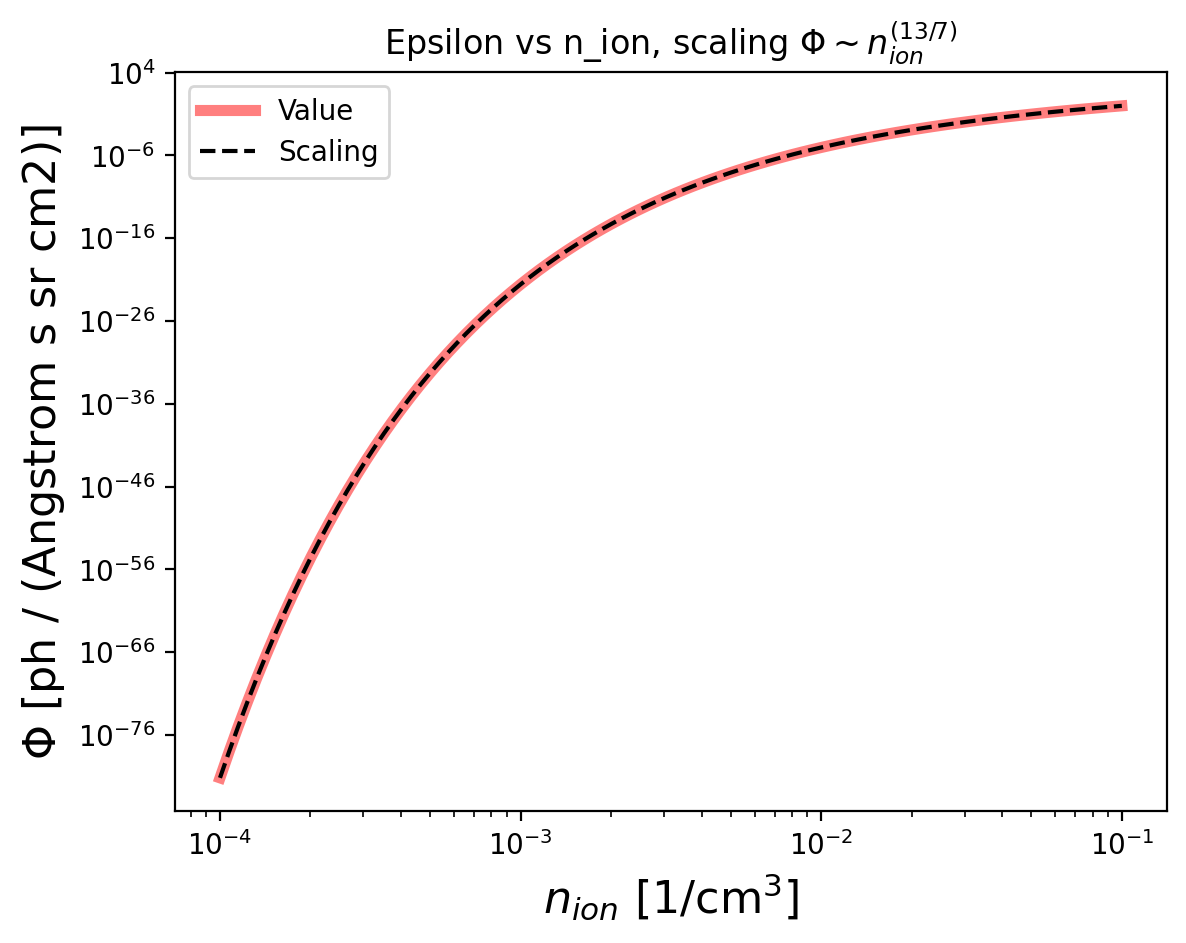
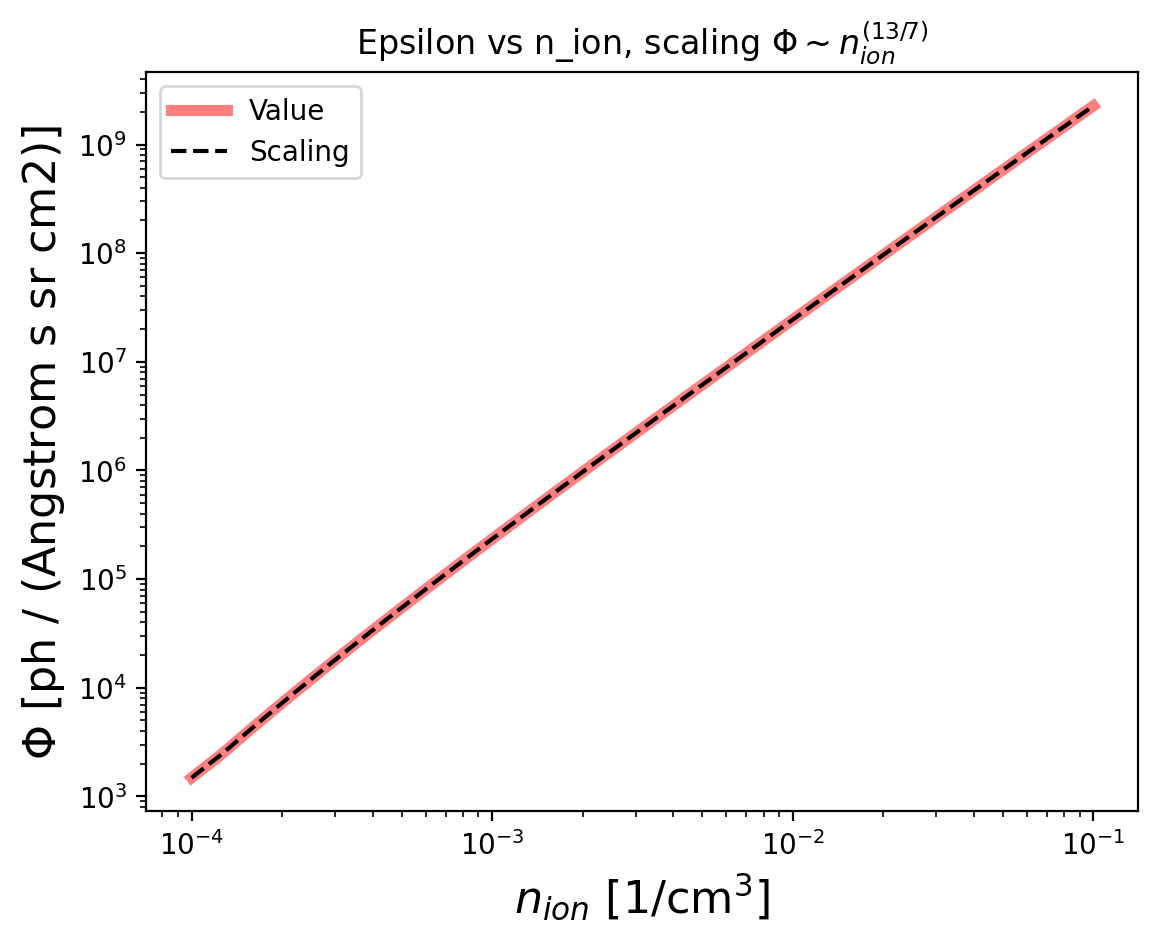
updates fixing emissivity

diff --git a/processing/testing-velocity-distribution.py b/processing/testing-velocity-distribution.py
@@ -123,9 +123,9 @@ quant = {
     'dark_mat': np.array([0.3]) * u.GeV/u.cm**3 * GeV_to_g,
     'ioni_gas': np.array([0.01]) * 1/u.cm**3,
     'neut_gas': np.array([0]) * 1/u.cm**3, 
-    'temp_ion': np.array([1e4]) * u.K, 
+    'temp_ion': np.array([1.5e5]) * u.K, 
     'dv_ioni':  np.array([220]) * u.km/u.s, 
-    'dv_neut':  np.array([200]) * u.km/u.s,
+    'dv_neut':  np.array([0]) * u.km/u.s,
 }
 
 enforce_units(quant)
@@ -150,21 +150,74 @@ T_AQN = T_AQN_ionized2(n_bar=quant["ioni_gas"],
     R=calc_R_AQN(m_aqn_kg))
 
 # print(T_AQN)
-from astropy import constants as cst
-from astropy import units as u
+# from astropy import constants as cst
+# from astropy import units as u
 
-T_AQN = 102.1*u.eV
-w = 1500 * u.AA 
-nu = w.to(u.Hz, equivalencies=u.spectral()) # 1.999e15 [Hz]
+
+
+T_AQN = 4.623*u.eV#102.1*u.eV
+lamb = 1500 * u.AA 
+nu = lamb.to(u.Hz, equivalencies=u.spectral()) # 1.999e15 [Hz]
 L = (0.6*u.kpc).to(u.m)
 R = calc_R_AQN(m_aqn_kg).to(u.m) # 2.25 [m]
 n_AQN = 2/5 * quant["dark_mat"] / m_aqn_kg # 1.28e-20 [1/m**3]
 X = T_AQN.to(u.J)
 C = 8 * cst.alpha**(5/2) / (45*cst.hbar**2*cst.c**2)
 F = C * X**3 * (X/cst.m_e/cst.c**2)**(1/4) * H(2*np.pi*cst.hbar*nu/X)
-Phi = L*R**2*n_AQN*F/(2*np.pi*cst.hbar*w) * (1*u.m/(100*u.cm))**2
+Phi = L*R**2*n_AQN*F/(2*np.pi*cst.hbar*lamb) * (1*u.m/(100*u.cm))**2
 print(Phi)
+print(H(2*np.pi*cst.hbar*nu/X))
 
+
+# h_func_cutoff = 17 + 12*np.log(2)
+# def h(x):
+#     print(x)
+#     return_array = np.copy(x)
+#     try:
+#         return_array[np.where(x<=0)] = 0
+#         return_array[np.where((x<1) & (x>0))] = (17 - 12*np.log(x[np.where(x<1)]/2))
+#         return_array[np.where(x>=1)] = h_func_cutoff
+#     except:
+#         if x < 0:
+#             return 0
+#         else:
+#             if x < 1:
+#                 return (17 - 12*np.log(x/2))
+#             else:
+#                 return (17 + 12*np.log(2))        
+#     return return_array
+
+# def H(x):
+#     return (1+x)*np.exp(-x)*h(x)
+
+# def new_H(x):
+#     if x < 1:
+#         return (1+x)*np.exp(-x)*(17-12*np.log(x/2))
+#     else:
+#         return (1+x)*np.exp(-x)*(17+12*np.log(2))
+
+# def new_h(x):
+#     if x < 1:
+#         return (17-12*np.log(x/2))
+#     else:
+#         return (17+12*np.log(2))
+
+# print(H(2*np.pi*cst.hbar*nu/X), 2*np.pi*cst.hbar*nu/X)
+
+# x_array = np.linspace(0,2, 100)[1:]
+
+# new_H_array = np.zeros(len(x_array))
+# for i in range(len(x_array)):
+#     new_H_array[i] = new_h(x_array[i])
+
+# H_array = h(x_array)
+
+# plt.figure(dpi=200)
+# plt.plot(x_array, H_array, label="original", linewidth=5)
+# plt.plot(x_array, new_H_array, label="new", color="red")
+# plt.legend()
+# print(H_array, new_H_array)
+# plt.show()
 
 # J_to_eV = (1*u.J).to(u.eV) / u.J
 # m2_to_cm2 = (1*u.m**2).to(u.cm**2) / u.m**2

diff --git a/processing/notebook_functions.py b/processing/notebook_functions.py
@@ -574,7 +574,7 @@ def epsilon_parameter_relations_study(quant_original, m_aqn_kg, frequency_band):
     # for i in range(len(velocity_array)):
     #     print(velocity_array[i].value, (scaling_relation[i]*epsilon_to_photon).value, (epsilon_array[i]*epsilon_to_photon).value)
     
-    plt.plot(velocity_array, epsilon_array[0]*epsilon_to_photon * scaling_relation / scaling_relation[0], "--", color="black", label="Scaling")
+    # plt.plot(velocity_array, epsilon_array[0]*epsilon_to_photon * scaling_relation / scaling_relation[0], "--", color="black", label="Scaling")
     plt.title(r"Epsilon, scaling $\Phi\sim \Delta v^{13/7}$")
     ax.set_xscale("log")
     ax.set_yscale("log")

diff --git a/processing/aqn.py b/processing/aqn.py
@@ -129,12 +129,9 @@ def h(x):
                 return (17 + 12*np.log(2))        
     return return_array
 
+
 def H(x):
     return (1+x)*np.exp(-x)*h(x)
-
-
-def h(x):
-    return x.copy()
 
 
 # def h(x):
